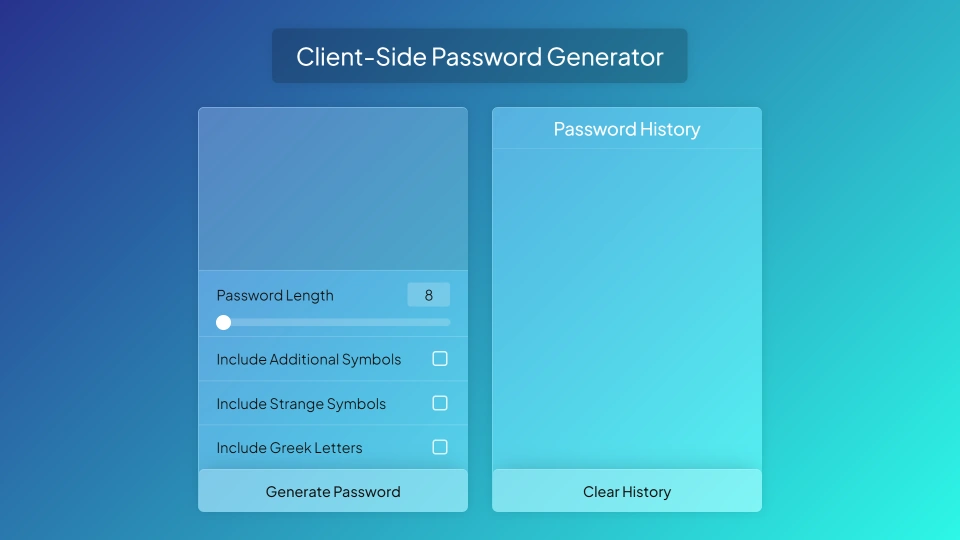
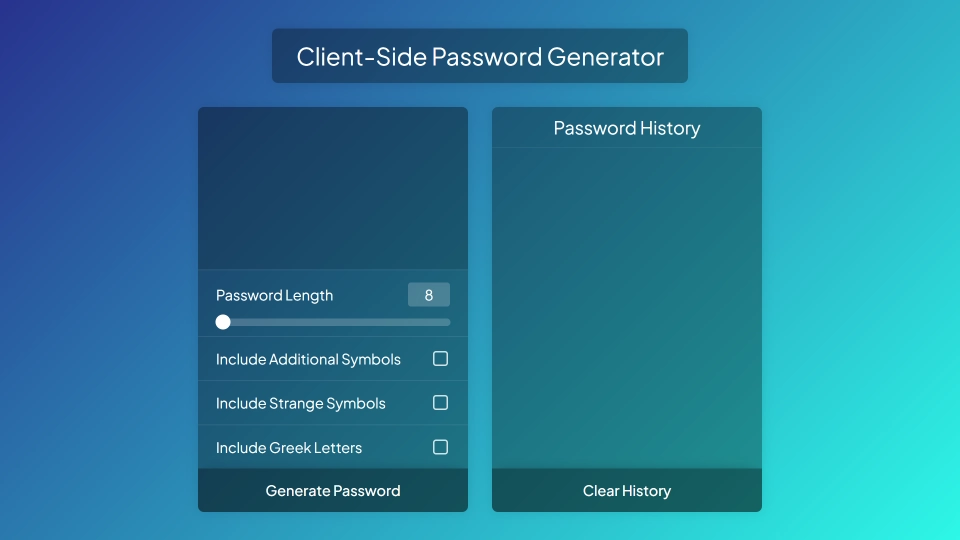
Replaced thumbnail
+ Some minor visual changes

diff --git a/password-generator/styles.css b/password-generator/styles.css
@@ -374,7 +374,8 @@ button:hover {
   font-family: var(--font-body);
   font-size: var(--font-size-body);
   border-radius: 8px;
-  box-shadow: 0 0 16px 0 hsla(0deg, 0%, 0%, 0.1);
+  -webkit-backdrop-filter: blur(8px);
+          backdrop-filter: blur(8px);
 }
 
 @media screen and (max-width: 800px) {

diff --git a/password-generator/styles.scss b/password-generator/styles.scss
@@ -292,7 +292,7 @@ button {
     font-family: var(--font-body);
     font-size: var(--font-size-body);
     border-radius: 8px;
-    box-shadow: 0 0 16px 0 hsl(0, 0%, 0%, 0.1);
+    backdrop-filter: blur(8px);
 }
 @media screen and (max-width: 800px) {
     body {
